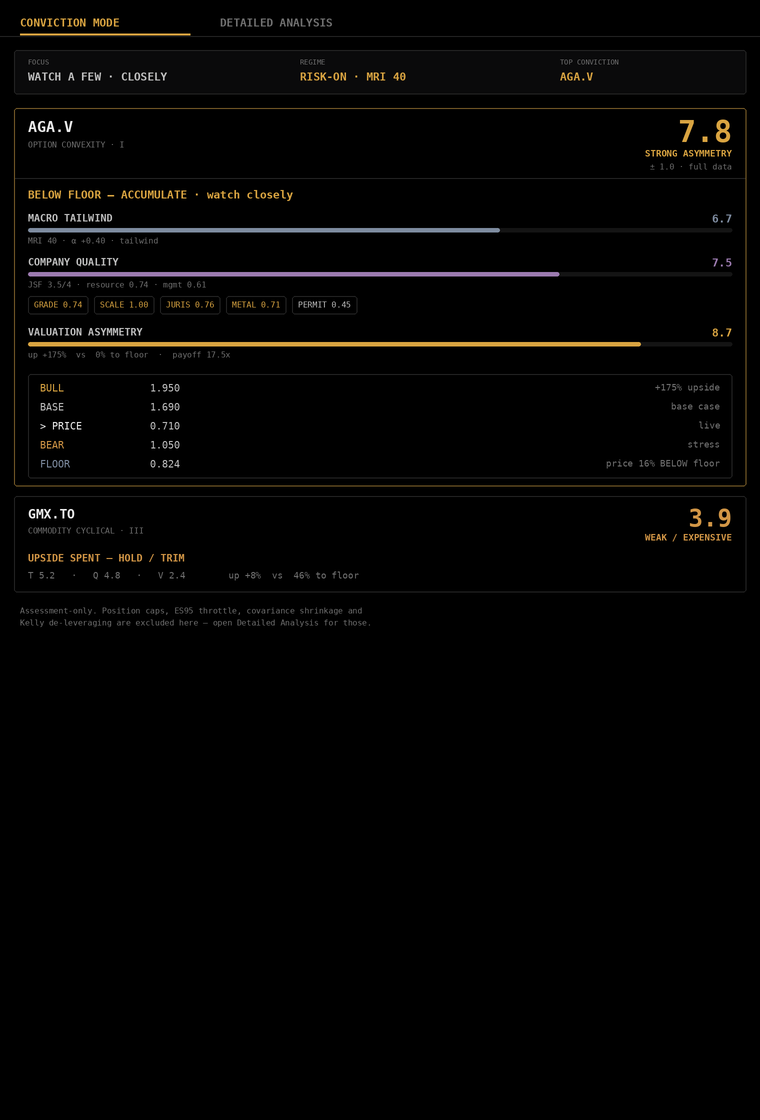
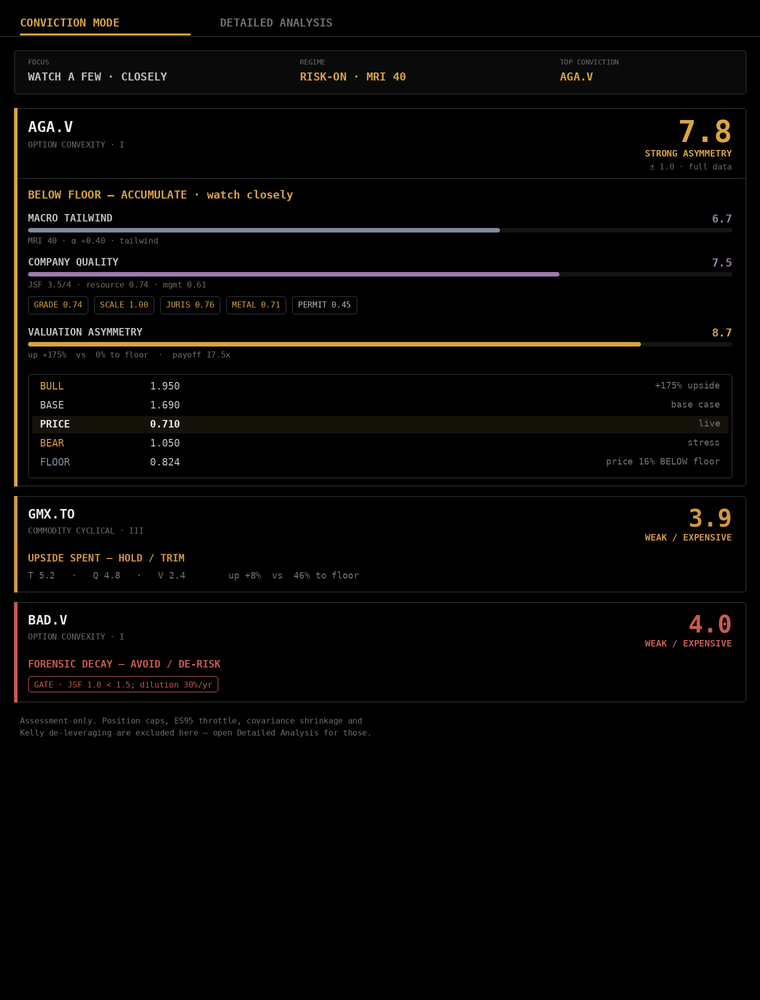
Phase 7 final polish: calmer card hierarchy + handover docs
- Conviction card: left accent stripe keyed to rating (scannable ranked list),
  highlighted live PRICE anchor row in the Bull->Floor ladder, forensic gate as a
  contained flag chip. Clean pillars retained.
- Docs: PHASE7_CONVICTION_MODE.md final state — layout, barbell verification table,
  full conviction_mode config reference, and a 'How to use Conviction Mode' section.
- Updated to-scale preview (strong / weak / gated examples).

Verification: V stays heaviest (0.45), alpha drives most of T (4.62 of 6.65);
forensic gate caps broken balance sheets at <=4.5; confidence ribbon widens with
sparse data/wide bands without moving the score. 134 Python + 10 Flutter green.

diff --git a/lib/main.dart b/lib/main.dart
@@ -658,21 +658,29 @@ class _MainTerminalViewState extends State<MainTerminalView>
     );
   }
 
-  Widget _ladderRow(String name, dynamic val, String note, Color c) {
+  Widget _ladderRow(String name, dynamic val, String note, Color c,
+      {bool highlight = false}) {
     final String v = (val is num) ? val.toStringAsFixed(3) : 'n/a';
-    return Padding(
-      padding: const EdgeInsets.symmetric(vertical: 1.0),
+    return Container(
+      padding: const EdgeInsets.symmetric(vertical: 2.0, horizontal: 4.0),
+      color: highlight ? const Color(0xFF15120A) : null, // faint amber-tinted anchor row
       child: Row(
         children: [
           SizedBox(
               width: 58,
               child: Text(name,
                   style: TextStyle(
-                      color: c, fontSize: 9.5, fontFamily: 'monospace'))),
+                      color: c,
+                      fontSize: 9.5,
+                      fontWeight: highlight ? FontWeight.bold : FontWeight.normal,
+                      fontFamily: 'monospace'))),
           Expanded(
               child: Text(v,
-                  style: const TextStyle(
-                      color: kDim, fontSize: 9.5, fontFamily: 'monospace'))),
+                  style: TextStyle(
+                      color: highlight ? Colors.white : kDim,
+                      fontSize: 9.5,
+                      fontWeight: highlight ? FontWeight.bold : FontWeight.normal,
+                      fontFamily: 'monospace'))),
           Text(note,
               style: const TextStyle(
                   color: kFaint, fontSize: 9, fontFamily: 'monospace')),
@@ -722,7 +730,13 @@ class _MainTerminalViewState extends State<MainTerminalView>
       margin: const EdgeInsets.only(bottom: 8),
       decoration: BoxDecoration(
         color: kPanel,
-        border: Border.all(color: rc.withOpacity(0.55)),
+        // Left accent stripe keyed to the rating: lets the ranked list be scanned down the edge.
+        border: Border(
+          left: BorderSide(color: rc, width: 3),
+          top: const BorderSide(color: kBorder),
+          right: const BorderSide(color: kBorder),
+          bottom: const BorderSide(color: kBorder),
+        ),
       ),
       child: Column(
         crossAxisAlignment: CrossAxisAlignment.stretch,
@@ -803,9 +817,17 @@ class _MainTerminalViewState extends State<MainTerminalView>
                           fontFamily: 'monospace')),
                 ),
                 if (gate['applied'] == true)
-                  Text('! ${gate['reason'] ?? 'gate'}',
-                      style: const TextStyle(
-                          color: kRed, fontSize: 8.5, fontFamily: 'monospace')),
+                  Container(
+                    margin: const EdgeInsets.only(left: 6),
+                    padding: const EdgeInsets.symmetric(horizontal: 5, vertical: 2),
+                    decoration: BoxDecoration(
+                      border: Border.all(color: kRed.withOpacity(0.6)),
+                      borderRadius: BorderRadius.circular(2),
+                    ),
+                    child: Text('GATE · ${gate['reason'] ?? ''}',
+                        style: const TextStyle(
+                            color: kRed, fontSize: 8, fontFamily: 'monospace')),
+                  ),
               ],
             ),
           ),
@@ -848,7 +870,8 @@ class _MainTerminalViewState extends State<MainTerminalView>
             child: Column(children: [
               _ladderRow('BULL', ladder['bull'], bullNote, kAccent),
               _ladderRow('BASE', ladder['base'], 'base case', kDim),
-              _ladderRow('> PRICE', ladder['price'], 'live', Colors.white),
+              _ladderRow('PRICE', ladder['price'], 'live', Colors.white,
+                  highlight: true),
               _ladderRow('BEAR', ladder['bear'], 'stress', Colors.orangeAccent),
               _ladderRow('FLOOR', ladder['floor'], floorNote, kCyan),
             ]),

diff --git a/tools_preview_conviction.py b/tools_preview_conviction.py
@@ -4,7 +4,7 @@ Not used by the app — a design preview only. Run: python tools_preview_convict
 from PIL import Image, ImageDraw, ImageFont
 
 S = 2  # supersample for crispness
-W, H = 760 * S, 1120 * S
+W, H = 760 * S, 1000 * S
 BG = (0, 0, 0)
 PANEL = (10, 10, 11)
 BORDER = (36, 36, 36)
@@ -14,8 +14,10 @@ FAINT = (112, 112, 112)     # kFaint
 CYAN = (126, 140, 160)      # kCyan steel
 PURPLE = (156, 123, 176)    # Q pillar
 RED = (200, 90, 82)         # kRed
+ORANGE = (210, 150, 70)
 WHITE = (235, 235, 235)
 TRACK = (20, 20, 20)
+PRICE_BG = (21, 18, 10)     # faint amber-tinted anchor row
 
 F = "/usr/share/fonts/truetype/dejavu/DejaVuSansMono.ttf"
 FB = "/usr/share/fonts/truetype/dejavu/DejaVuSansMono-Bold.ttf"
@@ -37,6 +39,9 @@ def bar(x, y, w, frac, color, h=4):
     if frac > 0:
         rect(x, y, x + w * max(0.02, min(1, frac)), y + h, fill=color, r=2)
 
+def stripe(x, y0, y1, color):
+    d.rectangle([x * S, y0 * S, (x + 3) * S, y1 * S], fill=color)
+
 # ── view toggle ──
 text(20, 16, "CONVICTION MODE", font(11, True), ACCENT)
 d.line([(20 * S, 34 * S), (190 * S, 34 * S)], fill=ACCENT, width=2 * S)
@@ -57,21 +62,17 @@ text(560, y + 20, "AGA.V", font(11, True), ACCENT)
 cx0, cx1 = 14, 746
 y = 108
 card_top = y
-# header band
 text(28, y + 10, "AGA.V", font(15, True), WHITE)
 text(28, y + 32, "OPTION CONVEXITY · I", font(8), FAINT)
 text(732, y + 6, "7.8", font(30, True), ACCENT, anchor="ra")
-text(732, y + 16, "/10", font(11), FAINT, anchor="la") if False else None
 text(732, y + 40, "STRONG ASYMMETRY", font(9, True), ACCENT, anchor="ra")
 text(732, y + 54, "± 1.0 · full data", font(8), FAINT, anchor="ra")
 d.line([(cx0 * S, (y + 70) * S), (cx1 * S, (y + 70) * S)], fill=BORDER, width=1 * S)
-# directive
 text(28, y + 80, "BELOW FLOOR — ACCUMULATE · watch closely", font(11, True), ACCENT)
 
-# pillars
 py = y + 104
-def pillar(py, rank_label, score, color, frac, detail):
-    text(28, py, rank_label, font(10, True), DIM)
+def pillar(py, label, score, color, frac, detail):
+    text(28, py, label, font(10, True), DIM)
     text(732, py, f"{score:.1f}", font(11, True), color, anchor="ra")
     bar(28, py + 16, 704, frac, color)
     text(28, py + 24, detail, font(8), FAINT)
@@ -79,7 +80,6 @@ def pillar(py, rank_label, score, color, frac, detail):
 
 py = pillar(py, "MACRO TAILWIND", 6.7, CYAN, 0.67, "MRI 40 · α +0.40 · tailwind")
 py = pillar(py, "COMPANY QUALITY", 7.5, PURPLE, 0.754, "JSF 3.5/4 · resource 0.74 · mgmt 0.61")
-# lens chips
 chips = [("GRADE", 0.74), ("SCALE", 1.00), ("JURIS", 0.76), ("METAL", 0.71), ("PERMIT", 0.45)]
 chx = 28
 for label, v in chips:
@@ -93,37 +93,60 @@ py += 26
 py = pillar(py, "VALUATION ASYMMETRY", 8.7, ACCENT, 0.87,
             "up +175%  vs  0% to floor  ·  payoff 17.5x")
 
-# ladder
+# ladder (PRICE row highlighted as the anchor)
 ly = py + 4
 rect(28, ly, 732, ly + 104, outline=BORDER, fill=BG)
-ladder = [("BULL", "1.950", "+175% upside", ACCENT),
-          ("BASE", "1.690", "base case", DIM),
-          ("> PRICE", "0.710", "live", WHITE),
-          ("BEAR", "1.050", "stress", (210, 150, 70)),
-          ("FLOOR", "0.824", "price 16% BELOW floor", CYAN)]
-lyy = ly + 8
-for name, val, note, col in ladder:
-    text(40, lyy, name, font(10), col)
-    text(150, lyy, val, font(10), DIM)
+ladder = [("BULL", "1.950", "+175% upside", ACCENT, False),
+          ("BASE", "1.690", "base case", DIM, False),
+          ("PRICE", "0.710", "live", WHITE, True),
+          ("BEAR", "1.050", "stress", ORANGE, False),
+          ("FLOOR", "0.824", "price 16% BELOW floor", CYAN, False)]
+lyy = ly + 6
+for name, val, note, col, hi in ladder:
+    if hi:
+        d.rectangle([32 * S, (lyy - 2) * S, 728 * S, (lyy + 15) * S], fill=PRICE_BG)
+    fnt = font(10, True) if hi else font(10)
+    text(40, lyy, name, fnt, col)
+    text(150, lyy, val, fnt, WHITE if hi else DIM)
     text(720, lyy, note, font(9), FAINT, anchor="ra")
     lyy += 19
 card_bot = ly + 104 + 8
-rect(cx0, card_top, cx1, card_bot, outline=(120, 92, 40), wd=1)
+rect(cx0, card_top, cx1, card_bot, outline=BORDER)
+stripe(cx0, card_top, card_bot, ACCENT)   # left accent stripe keyed to rating
 
-# ============================ GMX.TO (ranked below) ============================
+# ============================ GMX.TO (ranked) ============================
 y = card_bot + 10
 gtop = y
 text(28, y + 10, "GMX.TO", font(13, True), WHITE)
 text(28, y + 30, "COMMODITY CYCLICAL · III", font(8), FAINT)
-text(732, y + 8, "3.9", font(24, True), (210, 150, 70), anchor="ra")
-text(732, y + 36, "WEAK / EXPENSIVE", font(9, True), (210, 150, 70), anchor="ra")
-text(28, y + 56, "UPSIDE SPENT — HOLD / TRIM", font(10, True), (210, 150, 70))
+text(732, y + 8, "3.9", font(24, True), ORANGE, anchor="ra")
+text(732, y + 36, "WEAK / EXPENSIVE", font(9, True), ORANGE, anchor="ra")
+text(28, y + 56, "UPSIDE SPENT — HOLD / TRIM", font(10, True), ORANGE)
 text(28, y + 74, "T 5.2   ·   Q 4.8   ·   V 2.4        up +8%  vs  46% to floor", font(9), FAINT)
-rect(cx0, gtop, cx1, y + 96, outline=BORDER)
+gbot = y + 96
+rect(cx0, gtop, cx1, gbot, outline=BORDER)
+stripe(cx0, gtop, gbot, ORANGE)
+
+# ============================ BAD.V (forensic gate demo) ============================
+y = gbot + 10
+btop = y
+text(28, y + 10, "BAD.V", font(13, True), WHITE)
+text(28, y + 30, "OPTION CONVEXITY · I", font(8), FAINT)
+text(732, y + 8, "4.0", font(24, True), RED, anchor="ra")
+text(732, y + 36, "WEAK / EXPENSIVE", font(9, True), RED, anchor="ra")
+text(28, y + 56, "FORENSIC DECAY — AVOID / DE-RISK", font(10, True), RED)
+# gate flag chip
+chip = "GATE · JSF 1.0 < 1.5; dilution 30%/yr"
+cw = int(d.textlength(chip, font=font(8)) / S) + 12
+rect(28, y + 74, 28 + cw, y + 90, outline=(120, 60, 55))
+text(34, y + 78, chip, font(8), RED)
+bbot = y + 100
+rect(cx0, btop, cx1, bbot, outline=BORDER)
+stripe(cx0, btop, bbot, RED)
 
 # footer
-text(20, y + 110, "Assessment-only. Position caps, ES95 throttle, covariance shrinkage and", font(8), FAINT)
-text(20, y + 122, "Kelly de-leveraging are excluded here — open Detailed Analysis for those.", font(8), FAINT)
+text(20, bbot + 14, "Assessment-only. Position caps, ES95 throttle, covariance shrinkage and", font(8), FAINT)
+text(20, bbot + 26, "Kelly de-leveraging are excluded here — open Detailed Analysis for those.", font(8), FAINT)
 
 img = img.resize((W // S, H // S), Image.LANCZOS)
 img.save("conviction_card_preview.png")

diff --git a/PHASE7_CONVICTION_MODE.md b/PHASE7_CONVICTION_MODE.md
@@ -324,4 +324,80 @@ keys.)
 
 ---
 
+## 7. Final polish — layout & information hierarchy
+
+The Conviction card was tuned to feel calm and scannable, focused on *watching one basket closely*:
+
+* **Left accent stripe** keyed to the rating colour, so a ranked list of baskets can be scanned
+  straight down the edge (amber = strong, orange = weak, red = gated).
+* **Anchor row** — the live **PRICE** row in the Bull→Floor ladder is highlighted (faint amber tint,
+  bold) so the eye lands immediately on *where price sits between the bull target and the hard floor*.
+* **Gate as a contained flag** — the forensic gate renders as a small bordered `GATE · reason` chip
+  beside the directive: clearly visible, never a loud banner.
+* **Clean pillars** — each pillar is one labelled bar + a single faint detail line; weight/jargon
+  text was removed. The Q checklist sits as a compact chip row (grade · scale · juris · metal ·
+  permit). Font-fragile glyphs were removed so nothing renders as a box on any platform.
+
+A to-scale preview of the final card (live AGA.V values, plus a weak and a gated example) is checked
+in at `conviction_card_preview.png` (regenerate with `python tools_preview_conviction.py`).
+
+### Final verification (documented operating point)
+
+| Basket | A | ± | T | Q | V | Band / directive |
+|--------|---|---|---|---|---|------------------|
+| **AGA.V** (spear) | **7.8** | 1.0 | 6.7 | 7.5 | 8.7 | STRONG ASYMMETRY · BELOW FLOOR — ACCUMULATE |
+| URC.TO | 3.9 | 0.4 | 5.8 | 7.2 | 0.6 | WEAK / EXPENSIVE · UPSIDE SPENT |
+| GMX.TO | 3.8 | 0.8 | 6.0 | 6.5 | 0.8 | WEAK / EXPENSIVE · STAND ASIDE |
+| GROY | 3.5 | 0.4 | 5.8 | 6.9 | 0.0 | WEAK / EXPENSIVE · UPSIDE SPENT |
+
+Only the genuinely asymmetric basket (price *below* its hard floor with multi-bagger upside) scores
+high; cash-flowing ballast trading above its floor correctly falls away on the V pillar. **V stays the
+heaviest pillar (0.45)** and **α drives most of T (4.62 of 6.65)**. The forensic gate caps a broken
+balance sheet at ≤ 4.5 (JSF < 1.5 → 4.0; aggressive dilution / short runway → 4.5), and the confidence
+ribbon widens with sparse data / wide scenario bands (±0.6 → ±1.7 → ±2.3) **without moving the score**.
+
+---
+
+## 8. How to use Conviction Mode
+
+**What it is.** The default view. One card per high-conviction basket, ranked by the 0–10 **Asymmetry
+Rating**. It answers a single question — *"is this a basket worth watching very closely?"* — and
+deliberately carries **no** sizing / position-cap / ES95 / Kelly machinery (that lives behind the
+**Detailed Analysis** toggle).
+
+**Read a card top-to-bottom:**
+1. **Rating + band + directive** — the headline. `BELOW FLOOR — ACCUMULATE` and `STRONG/PRIME` are the
+   "watch closely / add" signals; `UPSIDE SPENT`, `STAND ASIDE`, `FORENSIC DECAY — AVOID` are step-back
+   signals. The `±` ribbon tells you how firm the number is (wide = thin data or a wide scenario band).
+2. **③ Valuation Asymmetry (V)** — the heart. Glance at the **ladder**: how far is the highlighted
+   **PRICE** below the **BULL** target, and how close to / below the **FLOOR**? Price below floor with
+   a fat bull is the prize setup.
+3. **② Company Quality (Q)** — can it survive and execute? JSF (runway/dilution) + the resource
+   checklist (grade · scale · jurisdiction · metallurgy · permitting) + management.
+4. **① Macro Tailwind (T)** — is the regime behind this archetype right now (esp. α for explorers)?
+5. **GATE chip** — if present, the balance sheet is the first problem; the rating is capped on purpose.
+
+**Rule of thumb:** add/watch-closely when the rating is high *because* V is high (structurally
+supported downside + real upside), the gate is clear, and the ribbon is tight. Treat a high rating
+carried only by T or Q, or with a wide ribbon, as "interesting, verify" rather than "act".
+
+**Key config (`v5_config.json → conviction_mode`):**
+
+| Key | Meaning |
+|-----|---------|
+| `pillar_weights_by_archetype` | Per-archetype T/Q/V blend (V heaviest; option_convexity leans T). |
+| `kappa_by_archetype` | How much T is driven by the archetype α vs raw regime (0.66 for explorers). |
+| `q_weights` | forensic / asset-quality / management split inside Q. |
+| `quality_lenses` | Mining checklist bands + weights (grade / scale / fraser / recovery / stage). |
+| `rho_half`, `delta_floor`, `support_band` | V-pillar shape (payoff half-saturation, floor support). |
+| `forensic_gate` | Hard-gate thresholds (JSF floor, aggressive-dilution, min-runway) and caps. |
+| `confidence_ribbon` | Ribbon widths by data quality + scenario-spread multiplier. |
+| `bands` | Rating → label thresholds. |
+| `portfolio_metadata[ticker].management_score` | Analyst execution/track-record input (0–1). |
+
+Every key is optional — omit the block to use the module defaults. Changes are config-only; no code
+edits are needed to retune the rating.
+
+---
+
 [PHASE 7 AUDIT + NEW ASYMMETRY RATING PROPOSAL COMPLETE]
